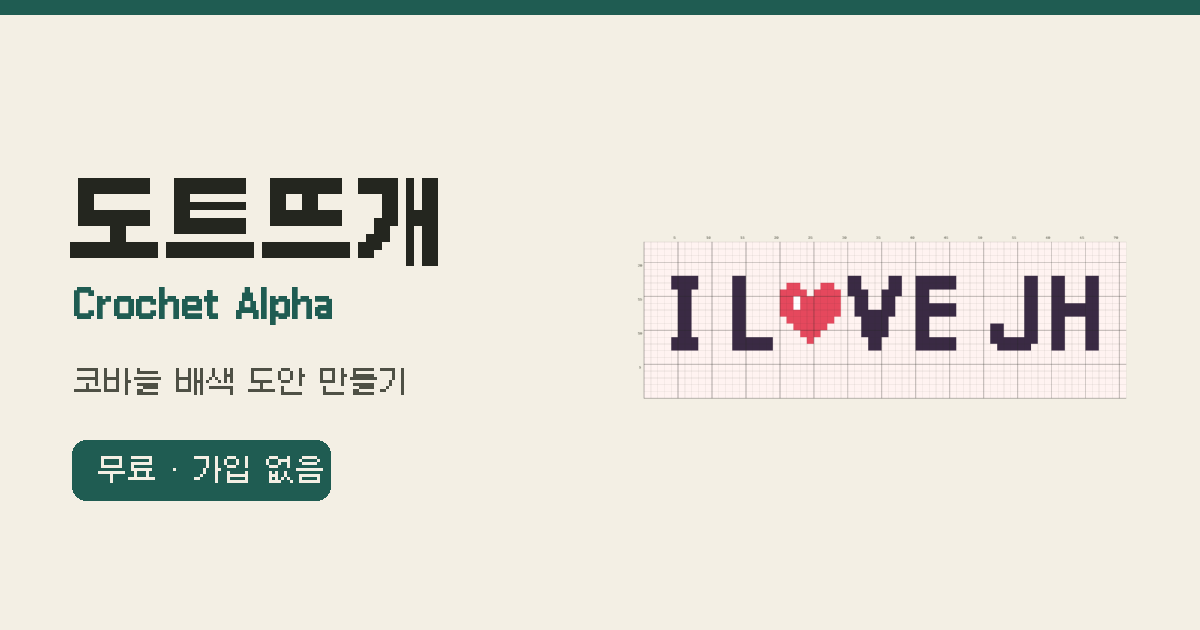
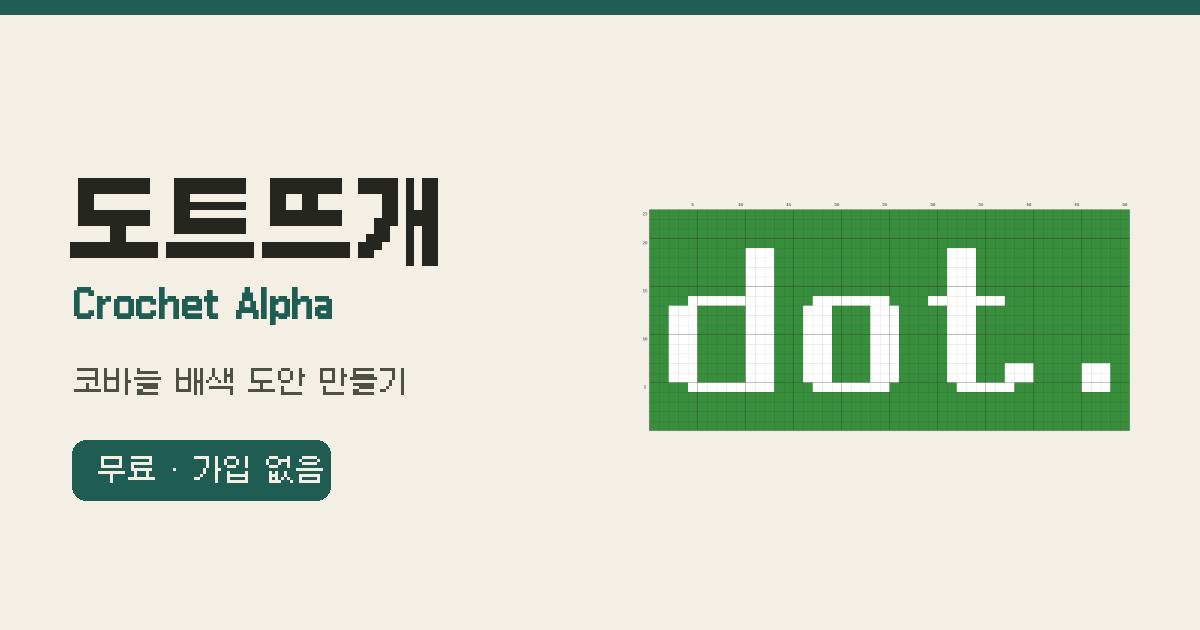
홈 대표 그림과 공유 그림(og.png)을 dot. 도안으로
- dot. (50코 × 23단): examples/img/dot.json·dot.png 추가, 홈 첫 화면 그림으로 사용
- 공유 그림 og.png: 왼쪽 로고·문구는 그대로, 오른쪽 도안만 dot.으로 바꿈
- 모든 페이지의 og:image 주소를 ?v=3으로 올려 카톡·SNS가 새 그림을 받게 함

Changed region(s): [[0.5242, 0.3317, 0.9558, 0.6937]]

diff --git a/index.html b/index.html
@@ -11,7 +11,7 @@
 <meta property="og:title" content="도트뜨개 (Crochet Alpha) | 코바늘 배색 도안 만들기 · Crochet Pattern Maker">
 <meta property="og:description" content="도트뜨개(Crochet Alpha)는 코바늘 배색(태피스트리) 도안을 무료로 만드는 도구예요. 칸을 칠하거나 문구를 넣어 도안을 만들고, 코수 세기로 사슬코를 세요. 가입 없이 바로 사용. Crochet Alpha is a free crochet tapestry pattern maker.">
 <meta property="og:url" content="https://crochetalpha.com/">
-<meta property="og:image" content="https://crochetalpha.com/assets/og.png?v=2">
+<meta property="og:image" content="https://crochetalpha.com/assets/og.png?v=3">
 <meta name="theme-color" content="#1F5C52">
 <link rel="icon" href="assets/favicon.svg" type="image/svg+xml">
 <link rel="stylesheet" href="assets/site.css">
@@ -52,7 +52,7 @@
         <a class="btn ghost" href="examples/">예시 도안 보기</a>
       </div>
     </div>
-    <div class="hero-art card"><img src="examples/img/merry-christmas.png" alt="도트뜨개로 만든 Merry Christmas 도안"></div>
+    <div class="hero-art card"><img src="examples/img/dot.png" alt="도트뜨개로 만든 dot. 문구 도안"></div>
   </section>
 
   <h2>도구</h2>

diff --git a/pattern/index.html b/pattern/index.html
@@ -11,7 +11,7 @@
 <meta property="og:title" content="도안 만들기 (Crochet Pattern Maker) | 도트뜨개 Crochet Alpha">
 <meta property="og:description" content="격자에 칸을 칠하거나 문구를 넣어 코바늘 배색(태피스트리) 도안을 무료로 만들어요. 도트 폰트 18종, 손글씨 글꼴, 장식, 글자 흐름, 그림자, 도안 파일 저장까지. Free crochet pattern maker by Crochet Alpha.">
 <meta property="og:url" content="https://crochetalpha.com/pattern/">
-<meta property="og:image" content="https://crochetalpha.com/assets/og.png?v=2">
+<meta property="og:image" content="https://crochetalpha.com/assets/og.png?v=3">
 <meta name="theme-color" content="#1F5C52">
 <link rel="icon" href="../assets/favicon.svg" type="image/svg+xml">
 <link rel="preconnect" href="https://fonts.googleapis.com">

diff --git a/guides/lettering-size/index.html b/guides/lettering-size/index.html
@@ -11,7 +11,7 @@
 <meta property="og:title" content="글씨 도안 크기 정하기 | 도트뜨개">
 <meta property="og:description" content="코바늘 게이지 견본을 뜨고 원하는 크기에 필요한 코수·단수를 계산하는 법. 글씨 도안이 작품에 들어갈지 확인하는 방법까지 예시 계산으로 정리했습니다.">
 <meta property="og:url" content="https://crochetalpha.com/guides/lettering-size/">
-<meta property="og:image" content="https://crochetalpha.com/assets/og.png?v=2">
+<meta property="og:image" content="https://crochetalpha.com/assets/og.png?v=3">
 <meta name="theme-color" content="#1F5C52">
 <link rel="icon" href="../../assets/favicon.svg" type="image/svg+xml">
 <link rel="stylesheet" href="../../assets/site.css">

diff --git a/guides/reading-charts/index.html b/guides/reading-charts/index.html
@@ -11,7 +11,7 @@
 <meta property="og:title" content="그래프 도안 읽는 법 | 도트뜨개">
 <meta property="og:description" content="코바늘 그래프 도안을 읽는 법. 칸과 코, 줄과 단의 관계, 왕복뜨기·원형뜨기에서 읽는 방향, 도안을 놓치지 않는 요령을 정리했습니다.">
 <meta property="og:url" content="https://crochetalpha.com/guides/reading-charts/">
-<meta property="og:image" content="https://crochetalpha.com/assets/og.png?v=2">
+<meta property="og:image" content="https://crochetalpha.com/assets/og.png?v=3">
 <meta name="theme-color" content="#1F5C52">
 <link rel="icon" href="../../assets/favicon.svg" type="image/svg+xml">
 <link rel="stylesheet" href="../../assets/site.css">

diff --git a/examples/index.html b/examples/index.html
@@ -11,7 +11,7 @@
 <meta property="og:title" content="예시 도안 | 도트뜨개">
 <meta property="og:description" content="amour, 크리스마스, 초콜릿 상자, 하트, 밤하늘, 튤립 테두리, 집, I LOVE 등 코바늘 배색 예시 도안. 눌러서 바로 열고 내 도안으로 고쳐 보세요.">
 <meta property="og:url" content="https://crochetalpha.com/examples/">
-<meta property="og:image" content="https://crochetalpha.com/assets/og.png?v=2">
+<meta property="og:image" content="https://crochetalpha.com/assets/og.png?v=3">
 <meta name="theme-color" content="#1F5C52">
 <link rel="icon" href="../assets/favicon.svg" type="image/svg+xml">
 <link rel="stylesheet" href="../assets/site.css">

diff --git a/counter/index.html b/counter/index.html
@@ -11,7 +11,7 @@
 <meta property="og:title" content="코수 세기 | 도트뜨개">
 <meta property="og:description" content="사슬코와 한 단의 코수를 버튼 하나로 세는 무료 코수 카운터. 목표 코수까지 남은 코를 막대로 보여주고, 숫자는 자동으로 저장돼요.">
 <meta property="og:url" content="https://crochetalpha.com/counter/">
-<meta property="og:image" content="https://crochetalpha.com/assets/og.png?v=2">
+<meta property="og:image" content="https://crochetalpha.com/assets/og.png?v=3">
 <meta name="theme-color" content="#1F5C52">
 <link rel="icon" href="../assets/favicon.svg" type="image/svg+xml">
 <link rel="stylesheet" href="../assets/site.css">

diff --git a/privacy/index.html b/privacy/index.html
@@ -11,7 +11,7 @@
 <meta property="og:title" content="개인정보처리방침 | 도트뜨개">
 <meta property="og:description" content="도트뜨개 개인정보처리방침. 수집하는 정보, 브라우저 저장소, 광고 쿠키에 대한 안내.">
 <meta property="og:url" content="https://crochetalpha.com/privacy/">
-<meta property="og:image" content="https://crochetalpha.com/assets/og.png?v=2">
+<meta property="og:image" content="https://crochetalpha.com/assets/og.png?v=3">
 <meta name="theme-color" content="#1F5C52">
 <link rel="icon" href="../assets/favicon.svg" type="image/svg+xml">
 <link rel="stylesheet" href="../assets/site.css">

diff --git a/guides/index.html b/guides/index.html
@@ -11,7 +11,7 @@
 <meta property="og:title" content="가이드 | 도트뜨개">
 <meta property="og:description" content="그래프 도안 읽는 법, 게이지로 글씨 도안 크기 정하는 법 등 코바늘 배색 도안 가이드.">
 <meta property="og:url" content="https://crochetalpha.com/guides/">
-<meta property="og:image" content="https://crochetalpha.com/assets/og.png?v=2">
+<meta property="og:image" content="https://crochetalpha.com/assets/og.png?v=3">
 <meta name="theme-color" content="#1F5C52">
 <link rel="icon" href="../assets/favicon.svg" type="image/svg+xml">
 <link rel="stylesheet" href="../assets/site.css">

diff --git a/credits/index.html b/credits/index.html
@@ -11,7 +11,7 @@
 <meta property="og:title" content="폰트 출처 | 도트뜨개">
 <meta property="og:description" content="도트뜨개에서 사용하는 무료 폰트의 제작자와 라이선스.">
 <meta property="og:url" content="https://crochetalpha.com/credits/">
-<meta property="og:image" content="https://crochetalpha.com/assets/og.png?v=2">
+<meta property="og:image" content="https://crochetalpha.com/assets/og.png?v=3">
 <meta name="theme-color" content="#1F5C52">
 <link rel="icon" href="../assets/favicon.svg" type="image/svg+xml">
 <link rel="stylesheet" href="../assets/site.css">

diff --git a/404.html b/404.html
@@ -12,7 +12,7 @@
 <meta property="og:title" content="페이지를 찾을 수 없어요 | 도트뜨개">
 <meta property="og:description" content="요청한 페이지를 찾을 수 없어요.">
 <meta property="og:url" content="https://crochetalpha.com/404">
-<meta property="og:image" content="https://crochetalpha.com/assets/og.png?v=2">
+<meta property="og:image" content="https://crochetalpha.com/assets/og.png?v=3">
 <meta name="theme-color" content="#1F5C52">
 <link rel="icon" href="/assets/favicon.svg" type="image/svg+xml">
 <link rel="stylesheet" href="/assets/site.css">

diff --git a/about/index.html b/about/index.html
@@ -11,7 +11,7 @@
 <meta property="og:title" content="소개 · 문의 | 도트뜨개">
 <meta property="og:description" content="도트뜨개 소개와 문의 방법.">
 <meta property="og:url" content="https://crochetalpha.com/about/">
-<meta property="og:image" content="https://crochetalpha.com/assets/og.png?v=2">
+<meta property="og:image" content="https://crochetalpha.com/assets/og.png?v=3">
 <meta name="theme-color" content="#1F5C52">
 <link rel="icon" href="../assets/favicon.svg" type="image/svg+xml">
 <link rel="stylesheet" href="../assets/site.css">
